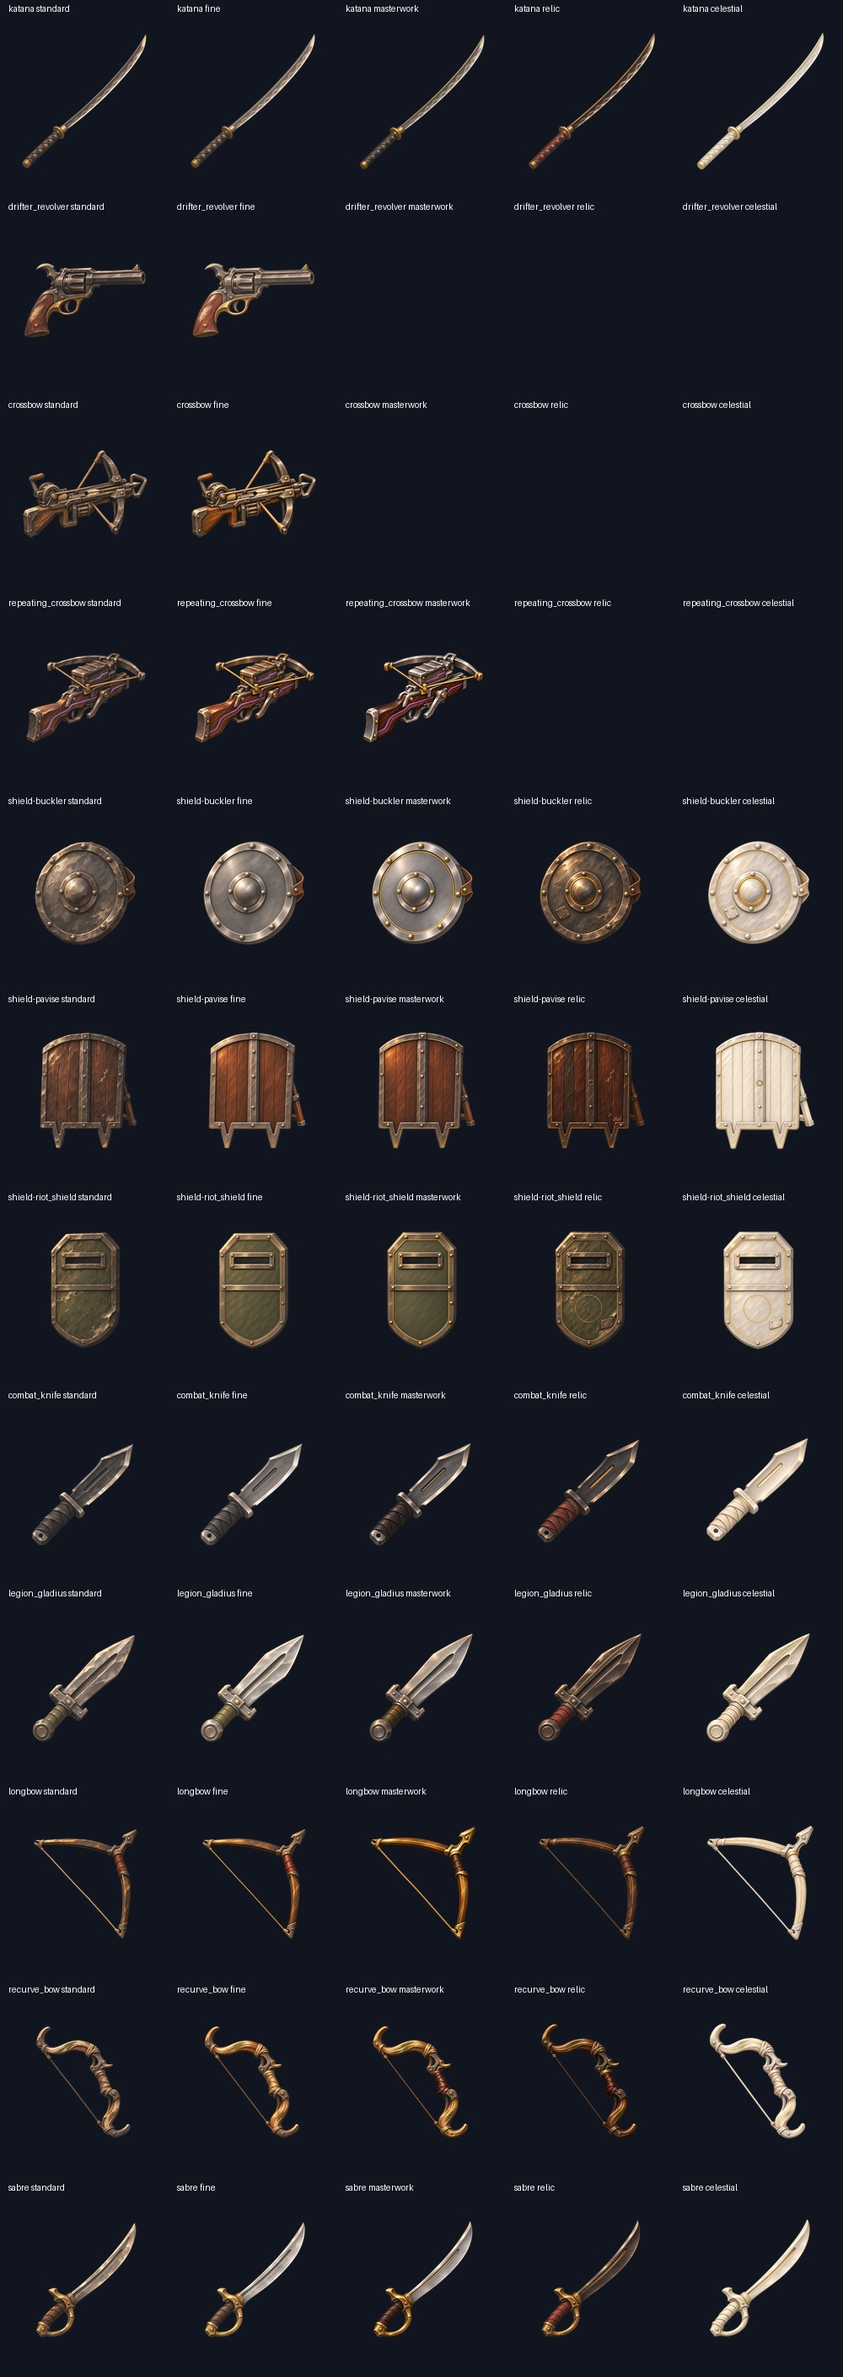
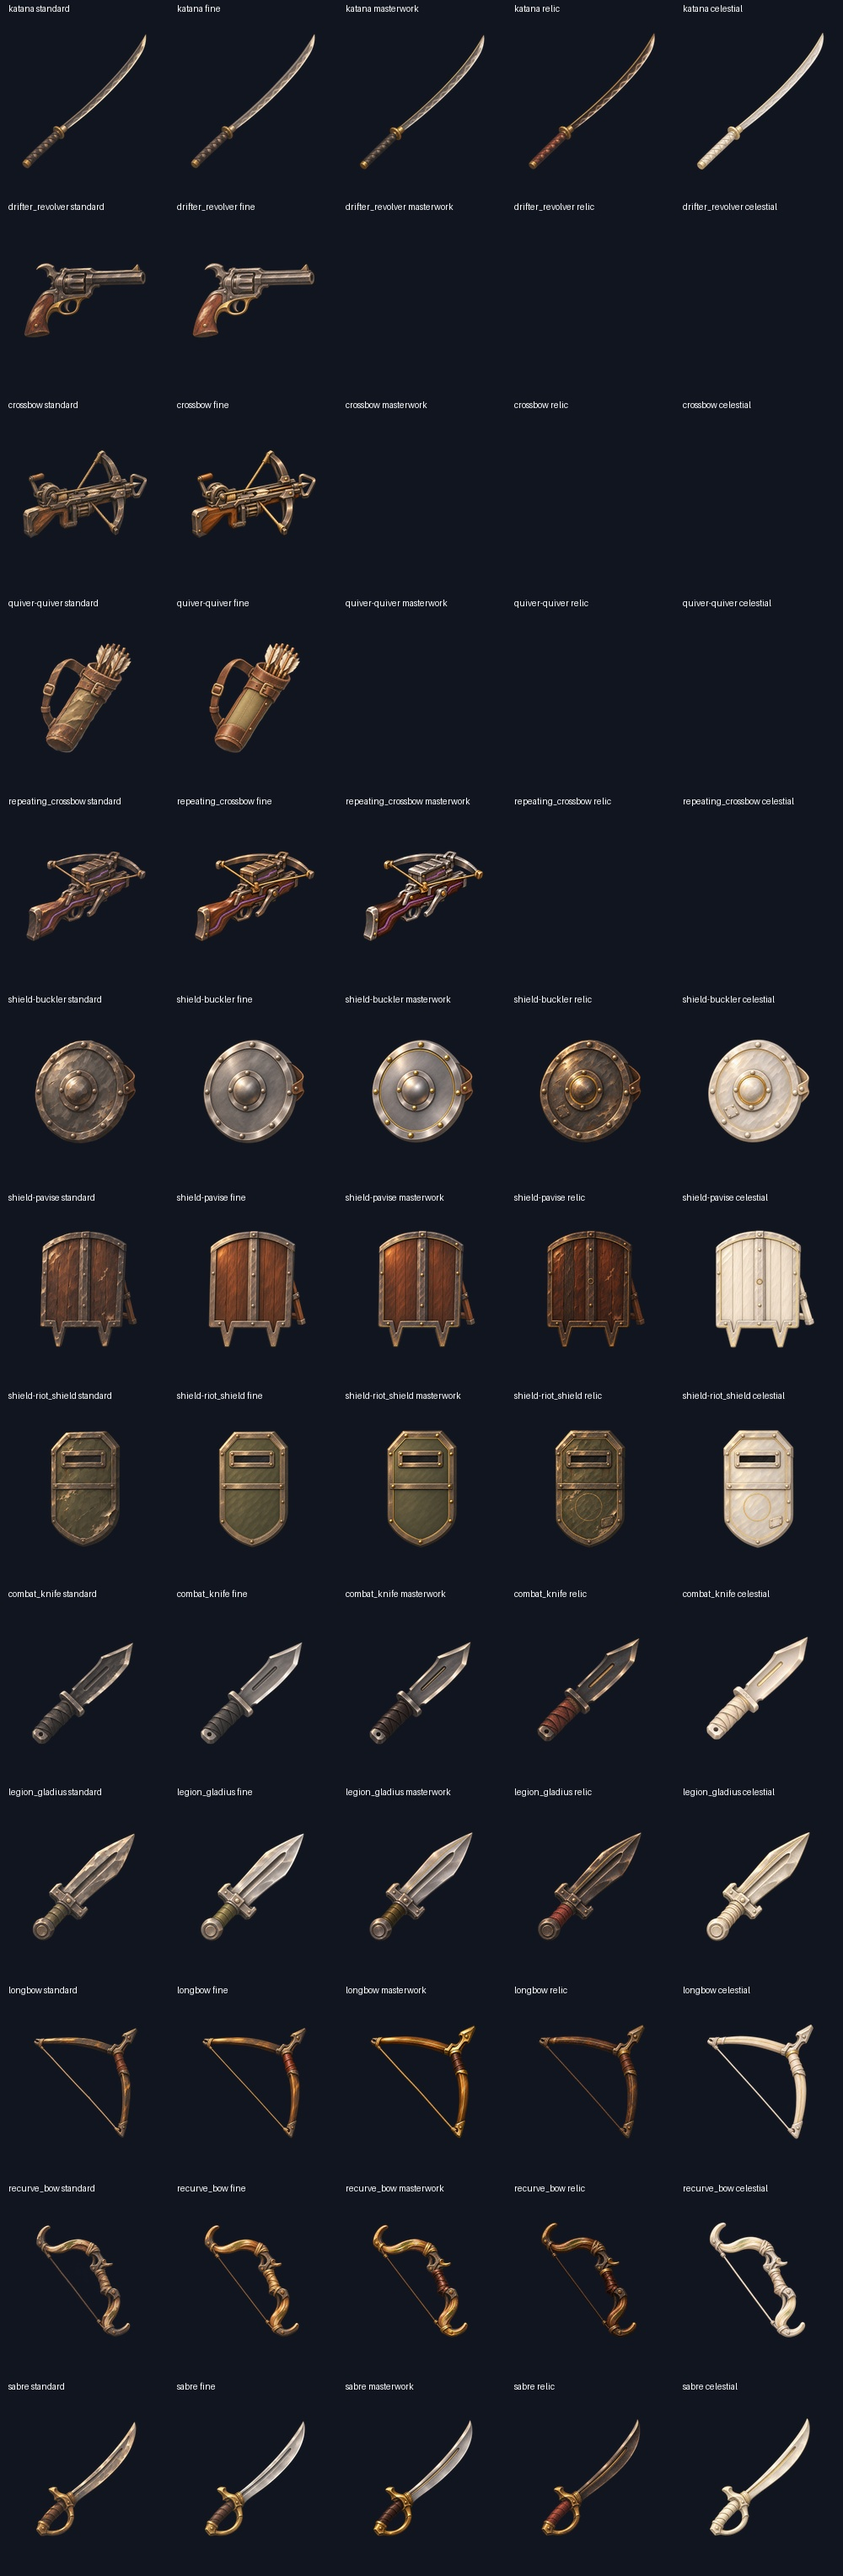
Archive quiver-quiver fine grade proof

diff --git a/art/_archive/prompt-pack/2026-11-19-file-08/WORK-CLAIMS.md b/art/_archive/prompt-pack/2026-11-19-file-08/WORK-CLAIMS.md
@@ -20,6 +20,6 @@ Current delivered count: 28 review-candidate masters, 112 exports. Crossbow Fine
 
 Current active claim: `shield-buckler`, `shield-riot_shield`, `shield-pavise`, each Fine/Masterwork/Relic/Celestial: twelve pictures. Shared issue comment 7003887329 records the reservation before rendering. Other kept glove, focus, quiver, hafted and armour grade IDs remain unclaimed by this worker. Check the shared issue before taking them. Existing blade grades `kemizuchi_duelling_blade`, `adamantile_greatsword`, `ork_machete` stay with the other worker. Their acknowledgment of the earlier overlap correction is still pending.
 
-LATEST: all twelve shields are delivered. This branch has 40 candidate masters and 160 exports; project baseline is 190/871 distinct candidate pictures. The other worker acknowledged release of the three overlapping blade IDs in issue comment 7004179899 (check live issue for canonical comment IDs); their three alternatives are excluded. Their remaining exclusive grade claim is the three blades above plus `hatchet`, `war_axe`, `glaive`, `lance`, `maul`, four grades each (32 pictures). Do not take those IDs.
+LATEST: all twelve shields are delivered. This branch has 40 candidate masters and 160 exports; project baseline is 190/871 distinct candidate pictures. The other worker acknowledged release of the three overlapping blade IDs in issue comment 7004125558; their three alternatives are excluded. Their remaining exclusive grade claim is the three blades above plus `hatchet`, `war_axe`, `glaive`, `lance`, `maul`, four grades each (32 pictures). Do not take those IDs.
 
 Our current claim: `quiver-quiver`, `armour-utility_belt`, `armour-armoured_belt`, four grades each, twelve pictures. Shared comment 7004343617 reserves these before rendering. Remaining other glove/focus and armour grades are free from this worker's claims; recheck shared issue before taking exact IDs. Old claim paragraphs above are history.

diff --git a/art/_archive/prompt-pack/2026-11-19-file-08/PROGRESS.md b/art/_archive/prompt-pack/2026-11-19-file-08/PROGRESS.md
@@ -1,5 +1,5 @@
 # Grade proof progress
 
-36 registered review-candidate masters. 42 archived PNG attempts, including earlier Fine trials. The composite shows the current candidate for each finish.
+40 registered review-candidate masters. 43 archived PNG attempts, including earlier Fine trials. The composite shows the current candidate for each finish.
 
 [Proof progress](review/complete-proof-progress.jpg) · [Inventory sizes](review/finish-candidates-small.jpg) · [Claims](WORK-CLAIMS.md) · [Handoff](HANDOFF.md)
